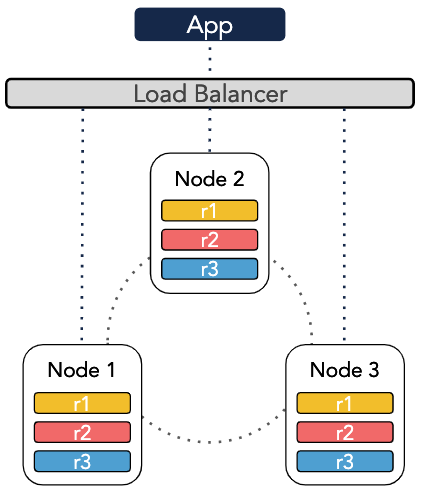
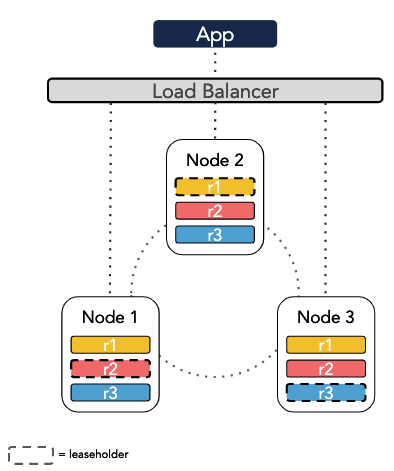
Edits from working session with Roko/Roland, & Jesse review

diff --git a/v19.1/cluster-topology-patterns.md b/v19.1/cluster-topology-patterns.md
@@ -13,6 +13,7 @@ Before selecting a pattern:
 - Review the recommendations and requirements in our [Production Checklist](recommended-production-settings.html).
 - Review the [CockroachDB architecture](architecture/overview.html). It's especially important to understand how data is stored in ranges, how ranges are replicated, and how one replica in each range serves as the "leaseholder" that coordinates all read and write requests for that range. See our [Performance Tuning](performance-tuning.html#important-concepts) tutorial for more details about these important concepts and for simple read and write examples.
 - Learn about the concept of [locality](start-a-node.html#locality), which makes CockroachDB aware of the location of nodes and able to intelligently balance replicas across localities. Locality is also a prerequisite for the [follow-the-workload](demo-follow-the-workload.html) feature and for enterprise [partitioning](partitioning.html).
+- Learn about [follower reads](follower-reads.html), an enterprise feature, which reduces latency for read queries by letting the closest replica serve the read request at the expense of only not guaranteeing that data is up to date.
 
 {{site.data.alerts.callout_info}}
 This page does not factor in hardware differences.
@@ -32,139 +33,137 @@ For the diagram above:
 
 - `App` is an application that accesses CockroachDB.
 - `Load Balancer` is a software-based load balancer.
+- Leaseholders are denoted by a dashed line.
 - The 3 nodes are all running in a single datacenter.
 - The cluster is using the default replication factor of 3 (represented by `r1`, `r2`, `r3`). Each range has 3 replicas, with each replica on a different node.
+- All CockroachDB nodes communicate with each other
 
 **Availability expectations**
 
 - With the default replication factor of 3, the cluster can tolerate 1 node failure. In such a case, all ranges still have 2 replicas on live nodes and, thus, a majority.
-- The cluster cannot tolerate the simultaneous or near-simultaneous failure of 2 or more nodes.
 
 **Performance expectations**
 
 - The network latency among the nodes is expected to be sub-millisecond.
 
-### Single datacenter, more resilient and/or performant
+### Single datacenter, more performant and/or resilient
 
-While the [basic single-datacenter deployment](#single-datacenter-basic-pattenr) takes advantage of CockroachDB's high availability, shares the load, and spreads capacity, scaling out the nodes has many benefits:
+While the [basic single-datacenter deployment](#single-datacenter-basic-pattern) takes advantage of CockroachDB's high availability, shares the load, and spreads capacity, scaling out the nodes has many benefits:
 
+- Performance: Adding nodes for more processing power and/or storage typically increases throughput. For example, with five nodes and a replication factor of 3, each range has 3 replicas, with each replica on a different node. In this case, there will only be 1-2 replicas on each nod, leaving additional storage and bandwidth available.
 - Resiliency: There will be more room to increase the replication factor, which increases resiliency against the failure of more than one node. For example, with 5 nodes and a replication factor of 5, each range has 5 replicas, with each replica on a different node. In this case, even with 2 nodes down, each range retains a majority of its replicas (3/5).
-- Performance: Adding nodes for more processing power and/or storage typically increases throughput.
 
 There are no constraints on node increments.
 
-<img src="{{ 'images/v19.1/topology-patterns/resilient-local-deployment.png' | relative_url }}" alt="Resilient local deployment" style="border:1px solid #eee;max-width:100%" />
-
-### Multiple datacenters
-
-Once an organization begins to grow, a datacenter outage isn't acceptable and a cluster needs to be available all of the time. This is where a single-region cluster with multiple datacenters is useful. For example, an organization can do a cloud deployment across multiple datacenters within the same geographical region.
-
-<img src="{{ 'images/v19.1/topology-patterns/single-region-multi.png' | relative_url }}" alt="Single region multiple datacenters" style="border:1px solid #eee;max-width:100%" />
-
-For the diagram above:
-
-**Configuration**
-
-- `App` is an application that accesses CockroachDB.
-- `Load Balancer` is a software-based load balancer.
-- The 3 nodes are each in a different datacenter, all located in the `us-east` region. Although not necessary with just 3 nodes, with more than 3 nodes, it's important to start each node with the `--locality` flag set to identify its datacenter (e.g., `--locality=region=us-east,datacenter=us-east-a`).
-- The cluster is using the default replication factor of 3 (represented by `r1`, `r2`, `r3`).
-
-**Availability expectations**
-
-- The cluster can withstand a datacenter failure.
-
-**Performance expectations**
-
-- Since all nodes are within a single region, the network latency between the nodes is still expected to be close  sub-millisecond.
+<img src="{{ 'images/v19.1/topology-patterns/local-scaling.png' | relative_url }}" alt="Resilient local deployment" style="border:1px solid #eee;max-width:100%" />
 
 ## Multi-region clusters
 
 ### Multiple regions, basic pattern
 
-For even more resiliency, use a multi-region cluster. A multi-region cluster is comprised of multiple datacenters in different regions (e.g., `East`, `West`), each with multiple nodes. CockroachDB will automatically try to diversify replica placement across localities (i.e., place a replica in each region). Using this setup, many organization will also transition to using different cloud providers (one provider per region).
+Once an organization begins to grow, a datacenter outage isn't acceptable and a cluster needs to be available all of the time. This is where a multi-region cluster is useful. A multi-region cluster is comprised of multiple datacenters in different regions (e.g., `us-east`, `us-west`), each with multiple nodes. CockroachDB will automatically try to diversify replica placement across localities (i.e., place a replica in each region). This setup can be used when your application is not SLA-sensitive, or you do not care about write performance. With this cluster pattern, many organizations will consider transitioning to using a variety of cloud providers (one provider per region).
 
-In this example, the cluster has an asymmetrical setup where `Central` is closer to the `West` than the `East`. This configuration will provide better write latency to the write workloads in the `West` and `Central` because there is a lower latency (versus writing in the `East`). This is assuming you are not using zone configurations.
+In this example, the cluster has an asymmetrical setup where `Central` is closer to the `West` than the `East`. This configuration will provide better write latency to the write workloads in the `West` and `Central` because there is a lower latency (versus writing in the `East`).
 
 <img src="{{ 'images/v19.1/topology-patterns/basic-multi-region.png' | relative_url }}" alt="Basic pattern for multi-region" style="border:1px solid #eee;max-width:100%" />
+
+Each region has 2 nodes across 2 datacenters and does not use partitioning:
+
+<img src="{{ 'images/v19.1/topology-patterns/basic-multi-region-layout.png' | relative_url }}" alt="Basic pattern for multi-region" style="border:1px solid #eee;max-width:100%" />
 
 For this example:
 
 #### Configuration
 
-- Nodes are spread across 3 regions within a country (`West`, `East`, `Central`).
-- A software-based load balancer directs traffic to any of the regions' nodes at random.
-- Every region has 3 datacenters.
-- Similar to the [single-datacenter](#single-region-clusters) topology, more regions can be added dynamically
-- A homogenous configuration among the regions for simplified operations is recommended
-- For sophisticated workloads, each region can have different node count and node specification. This heterogeneous configuration could better handle regional specific concurrency and load characteristics.
+- `App` is an application that accesses CockroachDB.
+- `Load Balancer`s are software-based load balancers that direct traffic to each of the regions' nodes at random.
+- Leaseholders are denoted by a dashed line.
+- 6 Nodes are spread across 3 regions (`us-west`, `us-central`, `us-east`) within a country (`us`).
+- Every region has 2 nodes across 2 datacenters (e.g., `us-west-a`, `us-west-b`). Note that most cloud providers only have 2 datacenters per region. Each node is started with the `--locality` flag to identify which region it is in:
 
-When locality is enabled, the load balancer should be setup to load balance on the database nodes within the same locality as the app servers first:
+    ~~~
+    --locality=region=us-west,datacenter=us-west-a
+    --locality=region=us-west,datacenter=us-west-b
+    --locality=region=us-central,datacenter=us-central-a
+    --locality=region=us-central,datacenter=us-central-b
+    --locality=region=us-east,datacenter=us-east-a
+    --locality=region=us-east,datacenter=us-east-b
+    ~~~
 
-- The `West` app servers should connect to the West CockroachDB servers
-- The `Central` app servers should connect to the Central CockroachDB servers
-- The `East` app servers should connect to the East CockroachDB servers
+- The cluster is using a replication factor of 5 (represented by `r1`, `r2`, `r3`, `r4`, `r5`).
+- All CockroachDB nodes communicate with each other
+- Similar to the [single-datacenter](#single-region-clusters) topology, more regions can be added dynamically.
 
 **Availability expectations**
 
-If all of the nodes for a preferred locality are down, then the app will try databases in other localities. The cluster can withstand a datacenter failure. In general, multi-regions can help protect against natural disaster.
+- If all of the nodes for a preferred locality are down, then the app will try datacenters in other localities.
+- The cluster can withstand a datacenter failure without losing a region because there are 2 nodes in each region.
+- The cluster can withstand a regional failure because even with 2 nodes down, each range retains a majority of its replicas (3/5). In general, multi-regions can help protect against natural disaster.
 
 **Performance expectations**
 
 - The latency numbers (e.g., `60ms`) in the first diagram represent network round-trip from one datacenter to another.
-- [Follow-the-workload](demo-follow-the-workload.html) will keep the performance quick for where the load is so you do not pay cross-country latency on reads.
-- Write latencies will not be faster than the slowest quorum between two regions.
+- [Follow-the-workload](demo-follow-the-workload.html) will increase the speed for reads.
+- Write latencies will be as fast as the slowest quorum between 2 regions.
 
 ### Multiple regions, more performant (with partitioning)
 
-While the [basic pattern for a multi-region cluster](#basic-pattern-for-a-multi-region-cluster) can help protect against regional failures, there will be high latency due to cross-country roundtrips. This is not ideal for organizations who have users spread out across the country. For any multi-region cluster, [partitioning](partitioning.html) should be used to keep data close to the users who access it.
+While the [basic pattern for a multi-region cluster](#multiple-regions-basic-pattern) can help protect against datacenter and regional failures, there will be high latency due to cross-country roundtrips. This is not ideal for organizations who have users spread out across the country (or world). For any multi-region cluster, [partitioning](partitioning.html) should be used to keep data close to the users who access it.
 
-<img src="{{ 'images/v19.1/topology-patterns/multi-region-partition.png' | relative_url }}" alt="Multi-region partition" style="border:1px solid #eee;max-width:100%" />
+In this example, a table is partitioned by a column indicating the region where a customer is located (e.g., a table has a `city` column and the values `LA`, `SF`, and `SD` are partitioned to the `us-west` region). Then, [zone configurations](configure-replication-zones.html) are used to keep the replicas and leaseholders for each partition in the closest datacenter to those customer.
 
 This setup uses a modern [multi-tier architecture](https://en.wikipedia.org/wiki/Multitier_architecture), which is simplified to global server load balancer (`GSLB`), `App`, and `Load Balancer` layers in the below diagram:
 
-<img src="{{ 'images/v19.1/topology-patterns/multi-tier-architecture.png' | relative_url }}" alt="Multi-tier architecture" style="border:1px solid #eee;max-width:100%" />
+<img src="{{ 'images/v19.1/topology-patterns/multi-region-partition.png' | relative_url }}" alt="Partitioned multi-region" style="border:1px solid #eee;max-width:100%" />
 
 **Configuration**
 
-- Nodes are spread across 3 regions within a country (`West`, `East`, `Central`)
-- A client connects to geographically close app server via `GSLB`.
-- Inside each region, an app server connects to one of the CockroachDB nodes within their geography through a software-based load balancer
-- Every region has 3 datacenters
-- All CockroachDB nodes communicate with each other
-- Tables are [partitioned](partitioning.html) at row-level by locality.
-- Rows with the `West` partition have their leaseholder in the `West` datacenter.
-- Rows with the `Central` partition have their leaseholder in the `Central` datacenter.
-- Rows with the `East` partition have their leaseholder in the `East` datacenter.
-- Replicas are evenly distributed among the three datacenters.
-- Abbreviated startup flag for each datacenter:
+A multi-region cluster with partitioning has a similar setup as the [basic multi-region pattern](#multiple-regions-basic-pattern):
+
+- 9 Nodes are spread across 3 regions (`us-west`, `us-central`, `us-east`) within a country (`us`).
+- A client connects to geographically close `app` server via `GSLB`.
+- Inside each region, an `app` server connects to one of the CockroachDB nodes within the region through a software-based `load balancer`.
+- Every region has 3 nodes across 2 datacenters (e.g., `us-west-a`, `us-west-b`). Note that most cloud providers only have 2 datacenters per region. Each node is started with the `--locality` flag to identify which region it is in:
 
     ~~~
-    --loc=Region=East
-    --loc=Region=Central
-    --loc=Region=West
+    --locality=region=us-west,datacenter=us-west-a
+    --locality=region=us-west,datacenter=us-west-b
+    --locality=region=us-central,datacenter=us-central-a
+    --locality=region=us-central,datacenter=us-central-b
+    --locality=region=us-east,datacenter=us-east-a
+    --locality=region=us-east,datacenter=us-east-b
     ~~~
+
+- The cluster is using a replication factor of 3 (represented by `r1`, `r2`, `r3`). Each replica has a prefix (`w-` for West, `c-` for Central, `e-` for East), which denotes the partition that is replicated.
+- Leaseholders are denoted by a dashed line. Using [zone configurations](configure-replication-zones.html), leaseholders can be pinned (represented by the `x`) to a datacenter close to the users.
+- All CockroachDB nodes communicate with each other.
+
+However, to make the cluster more performant, you need to add [partitions](partitioning.html) (an enterprise-only feature). In this example:
+
+- Tables are [partitioned](partitioning.html) at the row level by locality.
+- Partition replicas are distributed among the 3 nodes within each region.
+- Rows with the `region=us-west` partition have their leaseholder constrained to a `us-west-b` datacenter.
+- Rows with the `region=us-central` partition have their leaseholder constrained to a `us-central-a` datacenter.
+- Rows with the `region=us-east` partition have their leaseholder constrained to a `us-east-b` datacenter.
 
 **Availability expectations**
 
-- Can survive a single datacenter failure, since a majority of the replicas will remain available.
+- If a datacenter with 1 replica is lost, the cluster will not lose a region because there is a majority of replicas (2/3) in the region's other datacenter.
+- If a datacenter with 2 replicas is lost, the cluster will lose a region (i.e., data is unavailable) because there is only 1 replica in the region's other datacenter. For more information, see the [Locality-resilience tradeoff](partitioning#locality-resilience-tradeoff) section of the [Define Table Partitions](partitioning.html) doc.
 
 **Performance expectations**
 
-- Reads respond in a few milliseconds.
-- Writes respond in 60ms.
+- Reads respond in 2-4 milliseconds.
+- Writes respond in 2-4 milliseconds.
 - Symmetrical latency between datacenters.
-
-**Application expectations**
-
-- West `App` servers connect to the `West` CockroachDB nodes.
-- Central `App` servers connect to the `Central` CockroachDB nodes.
-- East `App` servers connect to the `East` CockroachDB nodes.
-
 
 ## Anti-patterns
 
-_Do we want to add a section for bad patterns / things not to do? What should be added here?_
+Anti-patterns are commonly used patterns that are ineffective or risky. Consider the following when choosing a cluster pattern:
+
+- Do not deploy to 2 datacenters. A cluster across 2 datacenters is not protected against datacenter failure and can lead to a [split-brain scenario](https://en.wikipedia.org/wiki/Split-brain_(computing)). For CockroachDB to work from a resiliency standpoint, it is best practice to deploy your cluster across 3 or more datacenters.
+- Do not deploy to regions with high network latency (e.g., `us-west`, `asia`, and `europe`) without using partitioning.
+- The cluster's replication factor does not need to be the same as the number of nodes in the cluster. In fact, as you scale your cluster, you should add nodes (but keep the replication factor at 5, for example) to improve performance. This is shown in the [Single datacenter, more resilient and/or performant](#single-datacenter-more-performant-and-or-resilient) section.
 
 <!-- ### High-Performance
 
